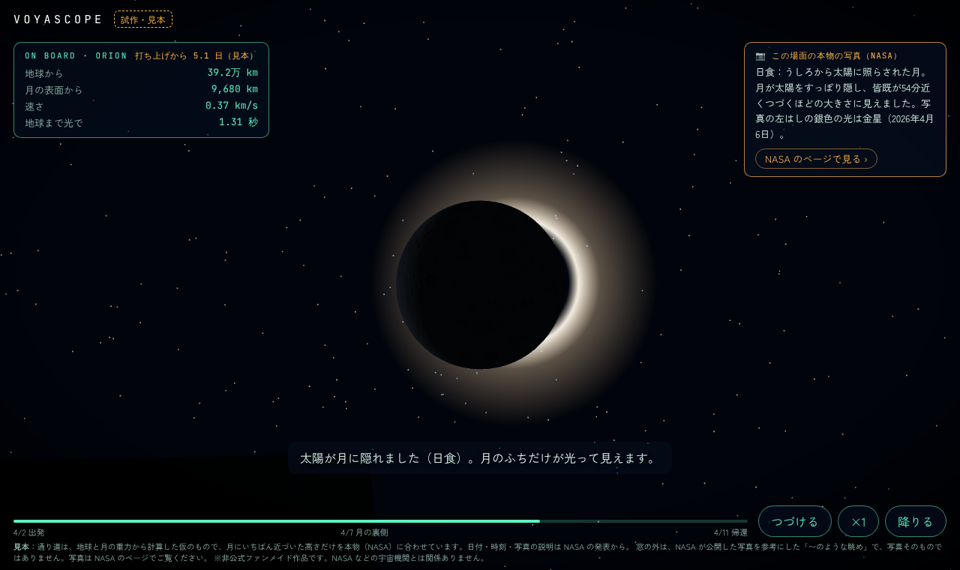
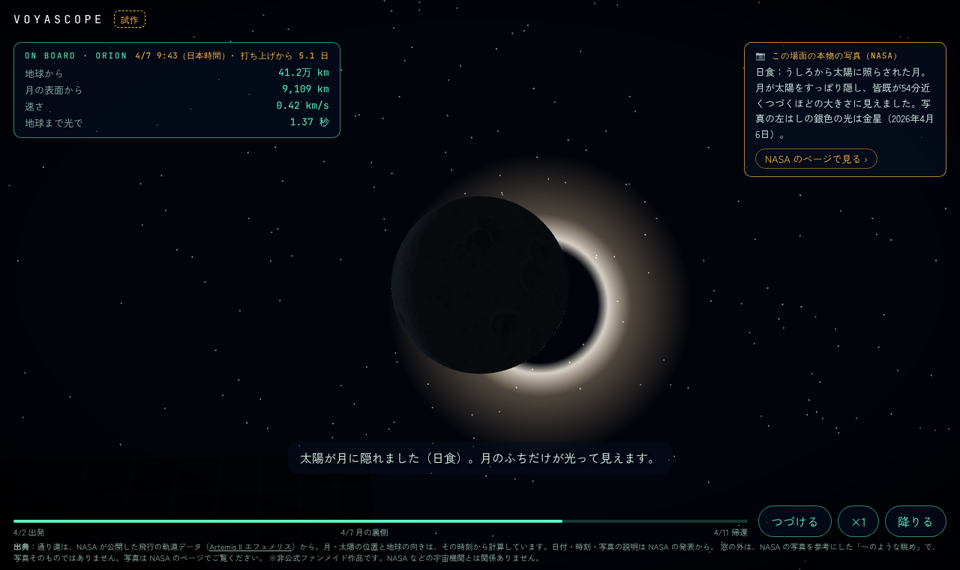
アルテミス2号ツアーの通り道を、NASA が公開した本物の軌道データにする
- 2026-10-09 オーナー「本物の軌道データ（出展記載）で加工してほしい」
- 元：NASA「Track NASA's Artemis II Mission in Real Time」の軌道データ（エフェメリス）ZIP の Artemis_II_OEM_2026_04_10_Post-ICPS-Sep-to-EI.asc（NASA/JSC/FOD/FDO 作成）。ページに「物理モデル・アニメーション・可視化・追跡アプリなどを作るのに使える」とある
- scripts/artemis2-trajectory.mjs で web/tour/artemis2/trajectory.json に変換（1,403点、gzip 約27KB）。ZIP はリポジトリに入れない
- 月・太陽の位置と地球の向きは、Astronomy Engine でその時刻から計算。地球の自転も本物の時刻に合う
- 軌道データから計算した地球の入り（午後6時42分 EDT）・地球の出（7時22分）・日食（8時34分〜9時30分）が、NASA の写真の時刻と日食の予定にそろうことを確かめた
- HUD に日本時間の日時。「見本」の表示を外し、ページの下に軌道データの出典リンク
- 見本の道のり（scripts/artemis2-sample-trajectory.mjs・sample-trajectory.json）は消した
- はじめの画面：3D の通り道に合わせて、地球が案内の枠に隠れない向きに

Claude-Session: https://claude.ai/code/session_01PSGDyXvgTX9QfsVBqZKy2A

diff --git a/web/tour/artemis2/tour.js b/web/tour/artemis2/tour.js
@@ -1,5 +1,6 @@
 // アルテミス2号に乗ってみる（試作）
-// - 通り道は sample-trajectory.json（地球と月の重力から計算した見本。本物の軌道データ〔C22〕に差し替える）
+// - 通り道は trajectory.json（NASA が公開した飛行の軌道データ〔エフェメリス〕を scripts/artemis2-trajectory.mjs で変換したもの）
+//   月・太陽の位置と地球の向きも、本物の時刻から計算してある
 // - 窓の外は「〜のような眺め」：地球・月・太陽の位置は通り道から計算し、見た目は NASA の写真を参考にした描き方
 // - 単位：1 = 1000 km。地球の中心が原点、月の公転面が x-z 面
 // - three.js は遠くを見る部屋と同じ r128 の部品だけの版（vendor/three-r128.min.js）。スプライト・線などは ShaderMaterial で作る
@@ -16,10 +17,13 @@ const DAY = 86400;
 const $ = (s) => document.querySelector(s);
 
 // ---------- 通り道 ----------
-const traj = await fetch("sample-trajectory.json").then((r) => r.json());
-const P = traj.points; // [t, x, y, mx, my]（秒・km）
+const traj = await fetch("trajectory.json").then((r) => r.json());
+const P = traj.points; // [t, x, y, z, mx, my, mz]（秒・km。x-y が月の公転面）
+const EPOCH = Date.parse(traj.epoch); // t = 0 の日時
 const T_END = P.at(-1)[0];
-const v3 = (x, y) => new THREE.Vector3(x * KM, 0, -y * KM);
+// データの (x, y, z) → 画面の (x, z, -y)（画面は y が上）
+const v3 = (x, y, z) => new THREE.Vector3(x * KM, z * KM, -y * KM);
+const dir3 = ([x, y, z]) => new THREE.Vector3(x, z, -y).normalize();
 
 // 時刻 t（秒）の宇宙船と月の位置（エルミート補間。速度は前後の点から）
 function stateAt(t) {
@@ -41,13 +45,22 @@ function stateAt(t) {
     const h00 = 2 * u ** 3 - 3 * u ** 2 + 1, h10 = u ** 3 - 2 * u ** 2 + u, h01 = -2 * u ** 3 + 3 * u ** 2, h11 = u ** 3 - u ** 2;
     return h00 * a[c] + h10 * h * der(i, c) + h01 * b[c] + h11 * h * der(j, c);
   };
-  const x = herm(1), y = herm(2);
-  const vx = der(i, 1) * (1 - u) + der(j, 1) * u, vy = der(i, 2) * (1 - u) + der(j, 2) * u;
-  const mx = a[3] + (b[3] - a[3]) * u, my = a[4] + (b[4] - a[4]) * u;
-  return { craft: v3(x, y), moon: v3(mx, my), speed: Math.hypot(vx, vy), rKm: Math.hypot(x, y), moonKm: Math.hypot(x - mx, y - my) };
+  const x = herm(1), y = herm(2), z = herm(3);
+  const vel = (c) => der(i, c) * (1 - u) + der(j, c) * u;
+  const mx = a[4] + (b[4] - a[4]) * u, my = a[5] + (b[5] - a[5]) * u, mz = a[6] + (b[6] - a[6]) * u;
+  return {
+    craft: v3(x, y, z),
+    moon: v3(mx, my, mz),
+    speed: Math.hypot(vel(1), vel(2), vel(3)),
+    rKm: Math.hypot(x, y, z),
+    moonKm: Math.hypot(x - mx, y - my, z - mz),
+  };
 }
 // 月にいちばん近づく時刻
-const T_MOON = P.reduce((b, p) => (Math.hypot(p[1] - p[3], p[2] - p[4]) < Math.hypot(b[1] - b[3], b[2] - b[4]) ? p : b))[0];
+const moonDist = (p) => Math.hypot(p[1] - p[4], p[2] - p[5], p[3] - p[6]);
+const T_MOON = P.reduce((b, p) => (moonDist(p) < moonDist(b) ? p : b))[0];
+// 太陽の向き（最接近のとき。数時間ではほとんど変わらない）
+const SUN = dir3(traj.sun);
 
 const d = (x) => x * DAY;
 
@@ -73,8 +86,17 @@ const T_RISE = (() => {
 })();
 
 // ---------- 乗っているあいだの台本（飛行の時刻 → 実際の秒数）。月のまわりはゆっくり ----------
-// 本物の順番（NASA 2026-04-06 の予定と、写真の時刻）：地球の入り → 月にいちばん近づく → 地球の出 → 日食
-const T_ECLIPSE = T_MOON + d(2 / 24); // 日食は、いちばん近づいてから1時間半ほどあとに始まった（午後8時35分ごろ）
+// 順番は本物のとおり：地球の入り → 月にいちばん近づく → 地球の出 → 日食（軌道データから計算すると、写真の時刻とそろう）
+// 日食のまんなか：宇宙船から見て、月と太陽がいちばん重なる時刻
+const T_ECLIPSE = (() => {
+  let best = T_MOON, bestA = Infinity;
+  for (let t = T_MOON; t < T_MOON + d(0.25); t += 60) {
+    const s = stateAt(t);
+    const a = s.moon.clone().sub(s.craft).angleTo(SUN);
+    if (a < bestA) [best, bestA] = [t, a];
+  }
+  return best;
+})();
 const SEGS = [
   { t0: 0, t1: d(0.35), sec: 20, look: "earth", say: "地球をはなれて、月へ。うしろの窓に、地球がだんだん小さくなっていきます。" },
   { t0: d(0.35), t1: T_MOON - d(0.42), sec: 26, look: "moon", say: "月まで、およそ38万km。何もない宇宙を、何日もかけて進みます。" },
@@ -100,13 +122,6 @@ const rideToMission = (r) => {
 };
 $("#tl-moon").style.left = `${((SEGS[4].r0 + SEGS[4].sec / 2) / RIDE_SEC) * 100}%`;
 
-// ---------- 太陽の向き：月の裏側で、月が太陽を隠す場面ができる向き（見本） ----------
-const SUN = (() => {
-  const s = stateAt(T_ECLIPSE);
-  const dir = s.moon.clone().sub(s.craft).normalize();
-  dir.y += 0.004; // ほんの少しずらして、月のふちから光が漏れる時間をつくる
-  return dir.normalize();
-})();
 
 // ---------- 3D ----------
 const canvas = $("#scene");
@@ -276,7 +291,7 @@ scene.add(corona);
 const pathLine = (() => {
   const pos = [];
   for (let i = 1; i < P.length; i++) {
-    const a = v3(P[i - 1][1], P[i - 1][2]), b = v3(P[i][1], P[i][2]);
+    const a = v3(P[i - 1][1], P[i - 1][2], P[i - 1][3]), b = v3(P[i][1], P[i][2], P[i][3]);
     pos.push(a.x, a.y, a.z, b.x, b.y, b.z);
   }
   const g = new THREE.BufferGeometry();
@@ -327,23 +342,23 @@ let yaw = 0, pitch = 0, dragging = false, lastDrag = 0;
 const INTRO_TARGET = new THREE.Vector3(), INTRO_CAM = new THREE.Vector3(), INTRO_UP = new THREE.Vector3();
 const INTRO_BOX = new THREE.Box3();
 for (const p of P) {
-  INTRO_BOX.expandByPoint(v3(p[1], p[2]));
-  INTRO_BOX.expandByPoint(v3(p[3], p[4]));
+  INTRO_BOX.expandByPoint(v3(p[1], p[2], p[3])); // 宇宙船の通り道だけで決める（月は9日で大きく動くので入れない）
 }
 function setIntroView() {
   const size = INTRO_BOX.getSize(new THREE.Vector3()).length();
   INTRO_BOX.getCenter(INTRO_TARGET);
   if (innerWidth < innerHeight) {
     // 月の側（月がいちばん近いときの位置）を上に。真上から見下ろす
-    const far = P.reduce((b, p) => (Math.hypot(p[1], p[2]) > Math.hypot(b[1], b[2]) ? p : b));
-    const toMoon = v3(far[1], far[2]).normalize(); // 地球から、いちばん遠いところへの向き
+    const far = P.reduce((b, p) => (Math.hypot(p[1], p[2], p[3]) > Math.hypot(b[1], b[2], b[3]) ? p : b));
+    const toMoon = v3(far[1], far[2], far[3]).setY(0).normalize(); // 地球から、いちばん遠いところへの向き
     INTRO_UP.copy(toMoon);
-    INTRO_TARGET.addScaledVector(toMoon, -size * 0.36); // 絵を画面の上のほうへ
-    INTRO_CAM.copy(INTRO_TARGET).add(new THREE.Vector3(0, size * 1.25, 0)).addScaledVector(toMoon, -size * 0.1);
+    INTRO_TARGET.addScaledVector(toMoon, -size * 0.5); // 絵を画面の上のほうへ
+    INTRO_CAM.copy(INTRO_TARGET).add(new THREE.Vector3(0, size * 2.0, 0)).addScaledVector(toMoon, -size * 0.14);
   } else {
     INTRO_UP.set(0, 1, 0);
-    INTRO_TARGET.x -= size * 0.06; // 左の案内の枠に隠れないよう、絵を少し右へ
-    INTRO_CAM.copy(INTRO_TARGET).add(new THREE.Vector3(0, size * 0.4, size * 0.28));
+    // 月の側を左・地球を右に見る向き（左下の案内の枠に地球が隠れないように）。絵を少し右へ
+    INTRO_TARGET.x += size * 0.3;
+    INTRO_CAM.copy(INTRO_TARGET).add(new THREE.Vector3(0, size * 0.96, -size * 0.65));
   }
 }
 function introCamera() {
@@ -375,13 +390,18 @@ function placeLabels() {
 }
 introCamera();
 
+const POLE = dir3(traj.earth.pole), G0 = dir3(traj.earth.greenwich0), EAST0 = POLE.clone().cross(G0);
+const mtxE = new THREE.Matrix4();
 function place(t) {
   const s = stateAt(t);
   moon.position.copy(s.moon);
   // 月はいつも同じ面を地球に向ける（テクスチャの真ん中が地球の側）
   const toE = s.moon.clone().negate();
   moon.rotation.y = Math.atan2(-toE.z, toE.x);
-  earth.rotation.y = (t / 86164) * Math.PI * 2;
+  // 地球の向き：北極と、その時刻のグリニッジの向きに合わせる（球の模型は、+y が北極・+x が経度0°）
+  const th = traj.earth.rate * t;
+  const g = G0.clone().multiplyScalar(Math.cos(th)).addScaledVector(EAST0, Math.sin(th));
+  earth.quaternion.setFromRotationMatrix(mtxE.makeBasis(g, POLE, g.clone().cross(POLE)));
   return s;
 }
 
@@ -477,10 +497,12 @@ function updateSunAndCorona() {
   return k;
 }
 
-// 打ち上げ（2026-04-01 18:35 EDT）から、月にいちばん近づく予定（2026-04-06 19:02 EDT）までの日数
-const MOON_DAY = (Date.UTC(2026, 3, 6, 23, 2) - Date.UTC(2026, 3, 1, 22, 35)) / 86400000;
+// 打ち上げ：2026-04-01 18:35 EDT（NASA）
+const LAUNCH = Date.UTC(2026, 3, 1, 22, 35);
+const jst = new Intl.DateTimeFormat("ja-JP", { timeZone: "Asia/Tokyo", month: "numeric", day: "numeric", hour: "numeric", minute: "2-digit" });
 function hud(s, t) {
-  $("#hud-day").textContent = `打ち上げから ${((t - T_MOON) / DAY + MOON_DAY).toFixed(1)} 日（見本）`;
+  const ms = EPOCH + t * 1000;
+  $("#hud-day").textContent = `${jst.format(ms)}（日本時間）· 打ち上げから ${((ms - LAUNCH) / 86400000).toFixed(1)} 日`;
   $("#hud-earth").textContent = fmtKm(s.rKm);
   $("#hud-moon").textContent = fmtKm(Math.max(0, s.moonKm - 1737.4));
   $("#hud-speed").textContent = `${s.speed.toFixed(2)} km/s`;
@@ -623,7 +645,7 @@ function frame(now) {
       const eclipse = updateSunAndCorona();
       hud(s, t);
       $("#tl-fill").style.width = `${(ride / RIDE_SEC) * 100}%`;
-      setCaption(eclipse > 0.35 ? "太陽が月に隠れました（日食）。月のふちだけが光って見えます。" : seg.far && Math.abs(t - T_MOON) < d(0.004) ? "月にいちばん近づきました。本物のオリオンは、月面から約6,545km（4,067マイル）まで近づきました。" : seg.say);
+      setCaption(eclipse > 0.35 ? "太陽が月に隠れました（日食）。月のふちだけが光って見えます。" : seg.far && Math.abs(t - T_MOON) < d(0.004) ? "月にいちばん近づきました。月面から約6,545km（4,067マイル）です。" : seg.say);
       showPhoto(seg.photo ?? null);
       // 大気に入る：最後の数秒、オレンジに光る
       $("#reentry").style.opacity = String(seg === SEGS.at(-1) ? smoothstep(u, 0.55, 1) * 0.9 : 0);

diff --git a/web/tour/artemis2/index.html b/web/tour/artemis2/index.html
@@ -21,7 +21,7 @@
 
   <header class="bar">
     <a class="brand mono" href="../../">VOYASCOPE</a>
-    <span class="sample-badge">試作・見本</span>
+    <span class="sample-badge">試作</span>
   </header>
 
   <!-- はじめ（外から見る） -->
@@ -77,8 +77,8 @@
   </section>
 
   <p class="note">
-    <b>見本</b>：通り道は、地球と月の重力から計算した仮のもので、月にいちばん近づいた高さだけを本物（NASA）に合わせています。日付・時刻・写真の説明は NASA の発表から。
-    窓の外は、NASA が公開した写真を参考にした「〜のような眺め」で、写真そのものではありません。写真は NASA のページでご覧ください。
+    <b>出典</b>：通り道は、NASA が公開した飛行の軌道データ（<a href="https://www.nasa.gov/missions/artemis/artemis-2/track-nasas-artemis-ii-mission-in-real-time/" target="_blank" rel="noopener">Artemis II エフェメリス</a>）から。月・太陽の位置と地球の向きは、その時刻から計算しています。日付・時刻・写真の説明は NASA の発表から。
+    窓の外は、NASA の写真を参考にした「〜のような眺め」で、写真そのものではありません。写真は NASA のページでご覧ください。
     ※非公式ファンメイド作品です。NASA などの宇宙機関とは関係ありません。
   </p>
 

diff --git a/web/tour/artemis2/tour.css b/web/tour/artemis2/tour.css
@@ -77,6 +77,7 @@ html, body { margin: 0; height: 100%; background: var(--navy); color: var(--text
 .tl-mark:last-of-type { transform: translateX(-100%); }
 .buttons { display: flex; gap: 8px; }
 
+.note a { color: var(--text-dim); }
 .note {
   position: fixed; left: 18px; right: 18px; bottom: 8px; z-index: 3; margin: 0;
   font-size: 10.5px; line-height: 1.5; color: var(--text-dim); text-shadow: 0 1px 4px #000;

diff --git a/docs/tasks/019-artemis2-tour.md b/docs/tasks/019-artemis2-tour.md
@@ -7,17 +7,17 @@
 
 - 写真はページに載せない。場面ごとに「この場面の本物の写真」の説明と、NASA のページへのリンクを出す（URL は C22 のあと公式で確かめて入れた）
 - 窓の外は、写真を参考にした「〜のような眺め」（コードで描く）。写真そのものではないと、ページの下にいつも書いておく
-- 通り道は、本物の軌道データ（C22：Horizons で取れるか・取ってよいか）に差し替えるまで、地球と月の重力から計算した**仮の道**。HUD の日数・距離・速さもこの仮の道から出しているので「見本」と書く
+- 通り道ははじめ、地球と月の重力から計算した仮の道（見本）にしていた。2026-10-09 に NASA の軌道データ（エフェメリス）に置きかえた（下）
 - 日付・時刻・写真の説明などの事実は、C22 の報告を照合してから入れる（2026-10-09 に入れた。下の「C22 の結果を入れた」）
 - 置き場所：`web/tour/artemis2/`（`noindex`。地球の画面・遠くを見る部屋からはまだつながない）
 
 ## 作ったもの
 
-- `scripts/artemis2-sample-trajectory.mjs`：地球と月（円軌道）の重力で、月の裏側をまわって地球へ戻る道（自由帰還軌道）を探して計算する（RK4）。月にいちばん近いのは約3.2日目・月面から約8,000km、全体で約8.3日。`web/tour/artemis2/sample-trajectory.json`（`sample: true`）に書き出す
+- （はじめは見本の道のりを計算するスクリプトを置いていた。2026-10-09 に消した。下）
 - `web/tour/artemis2/`（three.js r128。本体と同じ `vendor/three-r128.min.js` と地球の画像を使う。新しい依存はない）
   - はじめ：通り道の全体を斜め上から見る。光るオリオンに触れる（またはボタン）と、数秒で近づいて乗り込む
   - 乗っているあいだ（約4分）：出発（地球を振り返る）→ 月へ → 月が近づく → 地球の入り → 月の裏側（電波がとだえる）→ 地球の出 → 日食 → 地球へ → 大気に入る。ドラッグで窓の外を見回せる・一時停止・×1/2/4・降りる
-  - HUD：飛行日数・地球から・月の表面から・速さ・地球まで光で何秒（すべて仮の道から）
+  - HUD：日時（日本時間）・打ち上げから何日・地球から・月の表面から・速さ・地球まで光で何秒（軌道データから）
   - スマホ（縦長）では、はじめの絵を縦向き（月が上）にして案内の枠より上に収める。写真の説明が出ているあいだは、字幕をその上へ
 - 読み込み量：`config/size-budget.json` に「アルテミス2号ツアー」の組を足した（上限 600KB、いま 536KB。ほとんどが three.js と地球の昼夜の画像で、本体と共通なのでキャッシュが効く）
 - 画面：`docs/screenshots/artemis2-tour/`（PC 1440・スマホ 390。はじめ・地球の入り・月の裏側・地球の出・日食・おわり）
@@ -27,18 +27,29 @@
 C22（チャッピー、2026-10-09）の報告を、Claude Code が NASA の公式ページで照合して入れた（照合の記録：voyascope-research の `research/verification/2026-10-09-c22.md`）。
 
 - **場面の順番を本物に合わせた**：地球の入り（4/6 午後6時41分 EDT）→ 月の裏側・通信がとだえる（約40分）→ 月にいちばん近づく → 地球の出（午後7時22分）→ 日食（午後8時35分ごろから。皆既は54分近く）。試作では日食を地球の出の前に置いていたので直した
-- **見本の道のりを作り直した**：月にいちばん近づく高さを本物（4,067 マイル＝約 6,545 km。NASA 2026-04-11）に合わせた。ほかは物理の計算のまま（見本）
-- HUD の日数：月にいちばん近づく時刻を、本物の予定（打ち上げ 4/1 18:35 EDT から約5.02日）にそろえた
+- 見本の道のりの最接近の高さを本物に合わせた（→ 同じ日に、本物の軌道データに置きかえた。下）
 - **写真の欄**：地球の入り・月の裏側（ヴァヴィロフ・クレーター）・地球の出・日食（金星）の4つ。説明は NASA の説明文から（日食は、金星の写った写真の説明だけ。土星・火星の写った別の写真の説明は混ぜない）。リンクは NASA のページ。写真はページに載せない
 - タイムライン：4/2 出発・4/7 月の裏側・4/11 帰還（日本時間）。おわりの画面に NASA の写真ページへのリンク3つ
 - 地球照（地球で照り返した光）で、月の夜の側がうっすら見えるようにした
 - 乗っている時間は約4分（230秒）になった
 
+## 本物の軌道データにした（2026-10-09）
+
+オーナー（2026-10-09）「広く教育用の使用を認める文があり、関連性を示唆するものがなければ利用について許可は掲示されていた。本物の軌道データ（出典記載）で加工してほしい」。
+
+- 元：NASA「Track NASA's Artemis II Mission in Real Time」のページの ZIP（all-artemis-ii-oem-files.zip）の中の `Artemis_II_OEM_2026_04_10_Post-ICPS-Sep-to-EI.asc`（NASA/JSC/FOD/FDO 作成、2026-04-10。ICPS 分離後 4/2 01:57 UTC 〜 大気圏突入 4/10 23:53 UTC。EME2000・UTC）。ページに「物理モデル・アニメーション・可視化・追跡アプリなどを作るのに使える」とある
+- 変換：`scripts/artemis2-trajectory.mjs` → `web/tour/artemis2/trajectory.json`（1,403点、gzip 約27KB）。ZIP はリポジトリに入れない
+  - 月と太陽の位置は Astronomy Engine で計算。地球の向き（北極・グリニッジ）もその時刻から出す（地球の自転が本物の時刻に合う）
+  - 座標は、月の公転面を x-y にした向き
+- 確かめたこと：軌道データから計算すると、地球の入り 午後6時42分・地球の出 午後7時22分・日食 午後8時34分〜9時30分（EDT）。NASA の写真の時刻（6時41分・7時22分）と、日食の予定（8時35分から、皆既 54分近く）にそろう。最接近は 22:58 UTC・月面から 6,556 km（NASA の発表は 4,067 マイル＝6,545 km）
+- HUD：日本時間の日時と「打ち上げから○日」。「見本」の表示を外した
+- 出典：ページの下に、軌道データのページへのリンク
+- 見本の道のり（`scripts/artemis2-sample-trajectory.mjs`・`sample-trajectory.json`）は消した
+
 ## まだのこと
 
-1. **本物の軌道データ**：NASA が飛行の軌道データ（エフェメリス、ZIP）を公開していて、ページに「物理モデル・アニメーション・可視化・追跡アプリなどを作るのに使える」とある。JPL Horizons にも Artemis II（-1024）がある。使うかどうかはオーナーが決める（利用条件の判断。Horizons は、JPL に了承をもらった取り方の外になる）
-2. 月の見た目：NASA SVS の CGI Moon Kit（3D 用の月の色と標高の地図）。使うかはオーナーが決める
-3. 入口：遠くを見る部屋（月の停留所）に「光るオリオン」を置くか
+1. 月の見た目：NASA SVS の CGI Moon Kit（3D 用の月の色と標高の地図）。使うかはオーナーが決める
+2. 入口：遠くを見る部屋（月の停留所）に「光るオリオン」を置くか
 
 ## 決めてほしいこと
 
